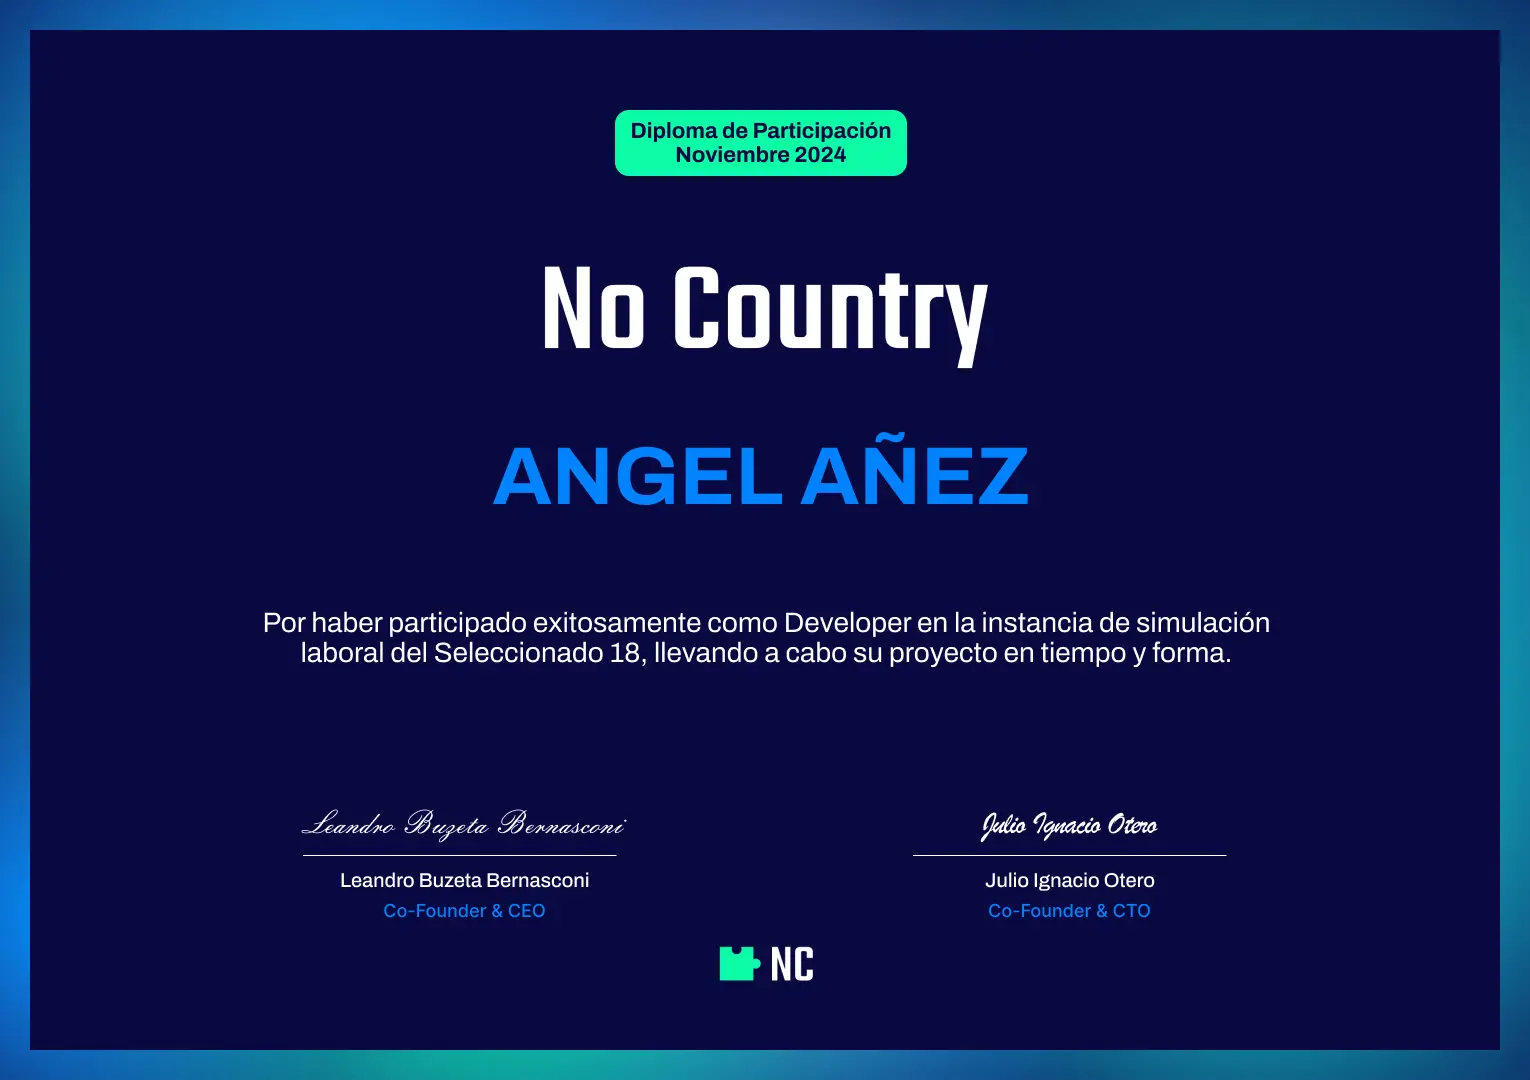
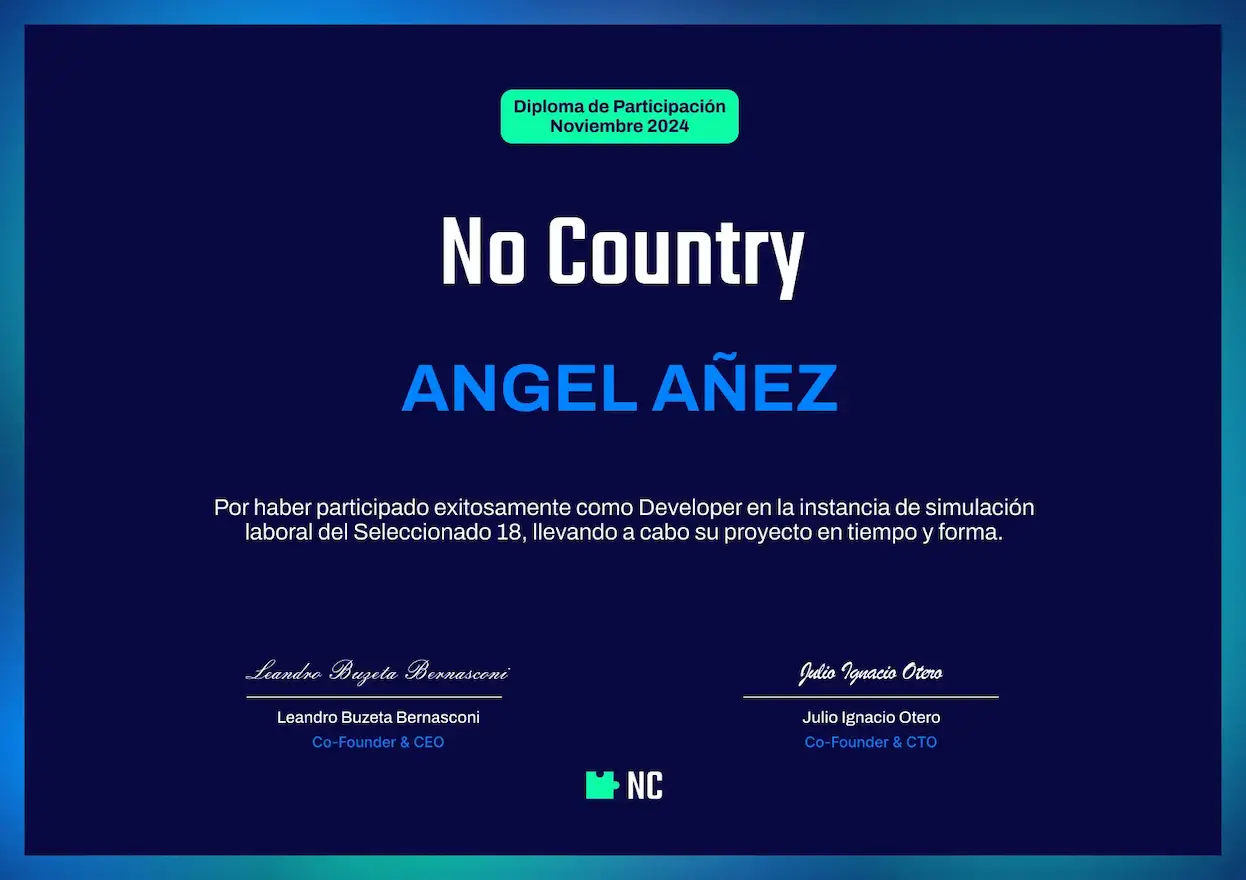
refactor: optimize certificates images

diff --git a/src/images/index.ts b/src/images/index.ts
@@ -80,33 +80,33 @@ import MatchProject7 from "@images/projects/matchproject7.webp";
 import MatchProject8 from "@images/projects/matchproject8.webp";
 
 /* Certificates */
-import PlatziJavaScriptBasico from "@images/certificates/Platzi-Curso-Básico-de-JavaScript.jpg";
-import PlatziPHPArreglosFunciones from "@images/certificates/Platzi-Curso-Básico-de-PHP-Arreglos-Funciones-y-Estructuras-de-Control.jpg";
-import PlatziPHPInstalacionFundamentos from "@images/certificates/Platzi-Curso-Básico-de-PHP-Instalación-Fundamentos-y-Operadores.jpg";
-import PlatziBootstrap4 from "@images/certificates/Platzi-Curso-de-Bootstrap-4.jpg";
-import PlatziComputacionBasica from "@images/certificates/Platzi-Curso-de-Computación-Básica.jpg";
-import PlatziEstrategiasAprenderEnLinea from "@images/certificates/Platzi-Curso-de-Estrategias-para-Aprender-en-Línea.jpg";
-import PlatziEstrategiasProductividad from "@images/certificates/Platzi-Curso-de-Estrategias-para-la-Productividad-y-la-Organización.jpg";
-import PlatziFrontendDeveloper from "@images/certificates/Platzi-Curso-de-Frontend-Developer.jpg";
-import PlatziFundamentosIngenieriaSoftware from "@images/certificates/Platzi-Curso-de-Fundamentos-de-Ingeniería-de-Software.jpg";
-import PlatziGestionDocumentosWord from "@images/certificates/Platzi-Curso-de-Gestión-de-Documentos-Digitales-con-Microsoft-Word.jpg";
-import PlatziGestionTiempo from "@images/certificates/Platzi-Curso-de-Gestión-Efectiva-del-Tiempo.jpg";
-import PlatziInglesA1Principiantes from "@images/certificates/Platzi-Curso-de-Inglés-Básico-A1-para-Principiantes.jpg";
-import PlatziInglesA1Presente from "@images/certificates/Platzi-Curso-de-Inglés-Básico-A1-Presente-Simple-y-Vocabulario-Común.jpg";
-import PlatziInglesGratis from "@images/certificates/Platzi-Curso-de-Inglés-Gratis-Estrategias-para-Aprender-en-Línea.jpg";
-import PlatziInglesB1ExpresionesTiempo from "@images/certificates/Platzi-Curso-de-Inglés-Intermedio-B1-Expresiones-de-Tiempo-y-Cantidad.jpg";
-import PlatziIntroduccionWebHistoria from "@images/certificates/Platzi-Curso-de-Introducción-a la-Web-Historia-y-Funcionamiento-de-Internet.jpg";
-import PlatziIntroduccionBackend from "@images/certificates/Platzi-Curso-de-Introducción-al-Desarrollo-Backend.jpg";
-import PlatziManejoEmociones from "@images/certificates/Platzi-Curso-de-Manejo-de-Emociones-para-la-Productividad-y-la-Organización.jpg";
-import PlatziPensamientoLogicoAlgoritmos from "@images/certificates/Platzi-Curso-de-Pensamiento-Lógico-Algoritmos-y-Diagramas-de-Flujo.jpg";
-import PlatziPensamientoLogicoLenguaje from "@images/certificates/Platzi-Curso-de-Pensamiento-Lógico-Lenguajes-de-Programación.jpg";
-import PlatziPensamientoLogicoEstructuras from "@images/certificates/Platzi-Curso-de-Pensamiento-Lógico-Manejo-de-Datos-Estructuras-y-Funciones.jpg";
-import PlatziProgramacionBasica from "@images/certificates/Platzi-Curso-de-Programación-Básica.jpg";
-import PlatziProgramacionEstructurada from "@images/certificates/Platzi-Curso-de-Programación-Estructurada.jpg";
-import PlatziTecnicasEstudio from "@images/certificates/Platzi-Curso-de-Técnicas-Efectivas-de-Estudio.jpg";
-import PlatziHabitosPositivos from "@images/certificates/Platzi-Curso-para-Crear-Hábitos-Positivos.jpg";
-import PlatziPracticoFrontendDeveloper from "@images/certificates/Platzi-Curso-Práctico-de-Frontend-Developer.jpg";
-import PlatziInglesA1Descripciones from "@images/certificates/Platzi-Taller-de-Inglés-Básico-A1-Descripciones-Personales.jpg";
+import PlatziJavaScriptBasico from "@images/certificates/Platzi-Curso-Básico-de-JavaScript.webp";
+import PlatziPHPArreglosFunciones from "@images/certificates/Platzi-Curso-Básico-de-PHP-Arreglos-Funciones-y-Estructuras-de-Control.webp";
+import PlatziPHPInstalacionFundamentos from "@images/certificates/Platzi-Curso-Básico-de-PHP-Instalación-Fundamentos-y-Operadores.webp";
+import PlatziBootstrap4 from "@images/certificates/Platzi-Curso-de-Bootstrap-4.webp";
+import PlatziComputacionBasica from "@images/certificates/Platzi-Curso-de-Computación-Básica.webp";
+import PlatziEstrategiasAprenderEnLinea from "@images/certificates/Platzi-Curso-de-Estrategias-para-Aprender-en-Línea.webp";
+import PlatziEstrategiasProductividad from "@images/certificates/Platzi-Curso-de-Estrategias-para-la-Productividad-y-la-Organización.webp";
+import PlatziFrontendDeveloper from "@images/certificates/Platzi-Curso-de-Frontend-Developer.webp";
+import PlatziFundamentosIngenieriaSoftware from "@images/certificates/Platzi-Curso-de-Fundamentos-de-Ingeniería-de-Software.webp";
+import PlatziGestionDocumentosWord from "@images/certificates/Platzi-Curso-de-Gestión-de-Documentos-Digitales-con-Microsoft-Word.webp";
+import PlatziGestionTiempo from "@images/certificates/Platzi-Curso-de-Gestión-Efectiva-del-Tiempo.webp";
+import PlatziInglesA1Principiantes from "@images/certificates/Platzi-Curso-de-Inglés-Básico-A1-para-Principiantes.webp";
+import PlatziInglesA1Presente from "@images/certificates/Platzi-Curso-de-Inglés-Básico-A1-Presente-Simple-y-Vocabulario-Común.webp";
+import PlatziInglesGratis from "@images/certificates/Platzi-Curso-de-Inglés-Gratis-Estrategias-para-Aprender-en-Línea.webp";
+import PlatziInglesB1ExpresionesTiempo from "@images/certificates/Platzi-Curso-de-Inglés-Intermedio-B1-Expresiones-de-Tiempo-y-Cantidad.webp";
+import PlatziIntroduccionWebHistoria from "@images/certificates/Platzi-Curso-de-Introducción-a la-Web-Historia-y-Funcionamiento-de-Internet.webp";
+import PlatziIntroduccionBackend from "@images/certificates/Platzi-Curso-de-Introducción-al-Desarrollo-Backend.webp";
+import PlatziManejoEmociones from "@images/certificates/Platzi-Curso-de-Manejo-de-Emociones-para-la-Productividad-y-la-Organización.webp";
+import PlatziPensamientoLogicoAlgoritmos from "@images/certificates/Platzi-Curso-de-Pensamiento-Lógico-Algoritmos-y-Diagramas-de-Flujo.webp";
+import PlatziPensamientoLogicoLenguaje from "@images/certificates/Platzi-Curso-de-Pensamiento-Lógico-Lenguajes-de-Programación.webp";
+import PlatziPensamientoLogicoEstructuras from "@images/certificates/Platzi-Curso-de-Pensamiento-Lógico-Manejo-de-Datos-Estructuras-y-Funciones.webp";
+import PlatziProgramacionBasica from "@images/certificates/Platzi-Curso-de-Programación-Básica.webp";
+import PlatziProgramacionEstructurada from "@images/certificates/Platzi-Curso-de-Programación-Estructurada.webp";
+import PlatziTecnicasEstudio from "@images/certificates/Platzi-Curso-de-Técnicas-Efectivas-de-Estudio.webp";
+import PlatziHabitosPositivos from "@images/certificates/Platzi-Curso-para-Crear-Hábitos-Positivos.webp";
+import PlatziPracticoFrontendDeveloper from "@images/certificates/Platzi-Curso-Práctico-de-Frontend-Developer.webp";
+import PlatziInglesA1Descripciones from "@images/certificates/Platzi-Taller-de-Inglés-Básico-A1-Descripciones-Personales.webp";
 import NCOctober2024 from "@images/certificates/No-Country-Octubre-2024.webp";
 import NCNovember2024 from "@images/certificates/No-Country-Noviembre-2024.webp";
 import NCDecember2024 from "@images/certificates/No-Country-Diciembre-2024.webp";
